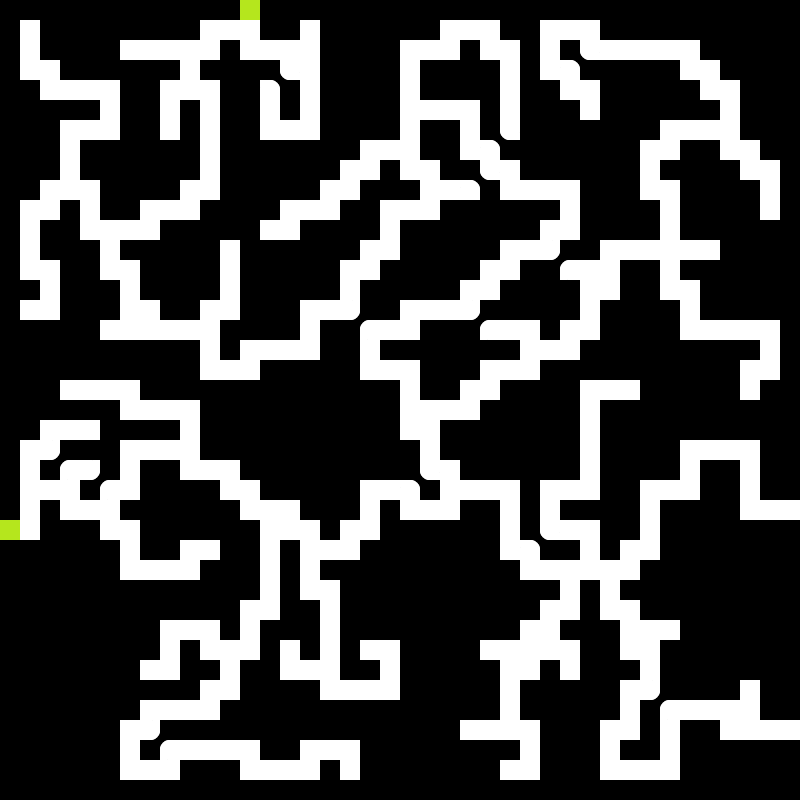
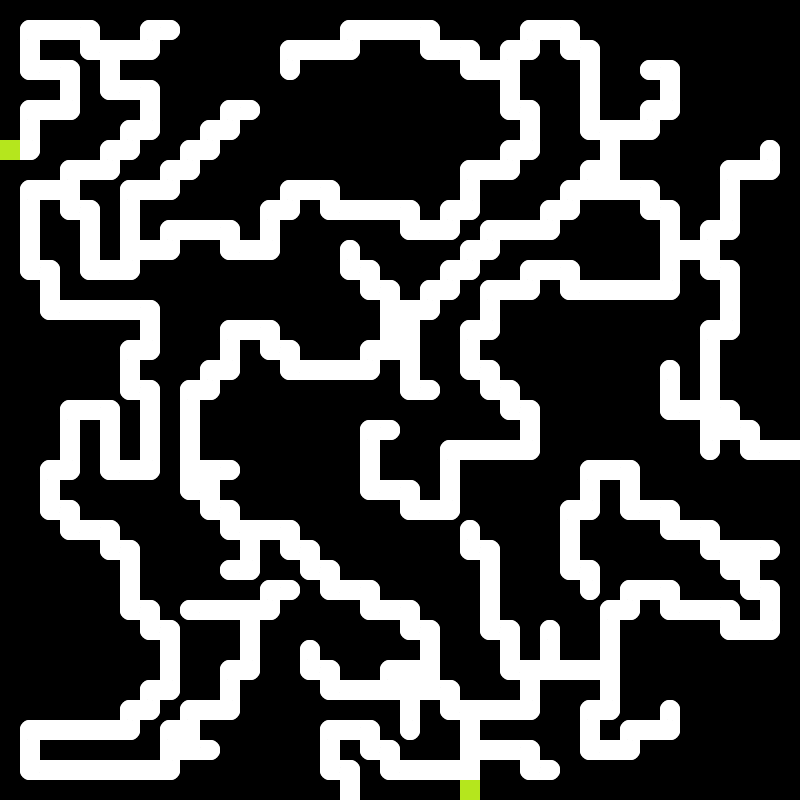
Improve maze image

diff --git a/main.py b/main.py
@@ -180,21 +180,17 @@ class MazeGenerateor():
                 if cell > 0:
                     if r > 0 and r < self.size-1 and c > 0 and c < self.size-1:
                         # Check top left
-                        if matrix[r-1][c-1] > 0:
-                            if matrix[r][c-1] == 0 and matrix[r-1][c] == 0:
-                                new_im.paste(self.corner_images[0], (y_offset, x_offset), self.corner_images[0])
+                        if matrix[r][c-1] == 0 and matrix[r-1][c] == 0:
+                            new_im.paste(self.corner_images[0], (y_offset, x_offset), self.corner_images[0])
                         # Check bottom left
-                        if matrix[r-1][c+1] > 0:
-                            if matrix[r][c+1] == 0 and matrix[r-1][c] == 0:
-                                new_im.paste(self.corner_images[1], (y_offset, x_offset), self.corner_images[1])
+                        if matrix[r][c+1] == 0 and matrix[r-1][c] == 0:
+                            new_im.paste(self.corner_images[1], (y_offset, x_offset), self.corner_images[1])
                         # Check bottom right
-                        if matrix[r+1][c+1] > 0:
-                            if matrix[r][c+1] == 0 and matrix[r+1][c] == 0:
-                                new_im.paste(self.corner_images[2], (y_offset, x_offset), self.corner_images[2])
+                        if matrix[r][c+1] == 0 and matrix[r+1][c] == 0:
+                            new_im.paste(self.corner_images[2], (y_offset, x_offset), self.corner_images[2])
                         # Check top right
-                        if matrix[r+1][c-1] > 0:
-                            if matrix[r][c-1] == 0 and matrix[r+1][c] == 0:
-                                new_im.paste(self.corner_images[3], (y_offset, x_offset), self.corner_images[3])
+                        if matrix[r][c-1] == 0 and matrix[r+1][c] == 0:
+                            new_im.paste(self.corner_images[3], (y_offset, x_offset), self.corner_images[3])
                 x_offset += Pixel
             y_offset += Pixel
 
